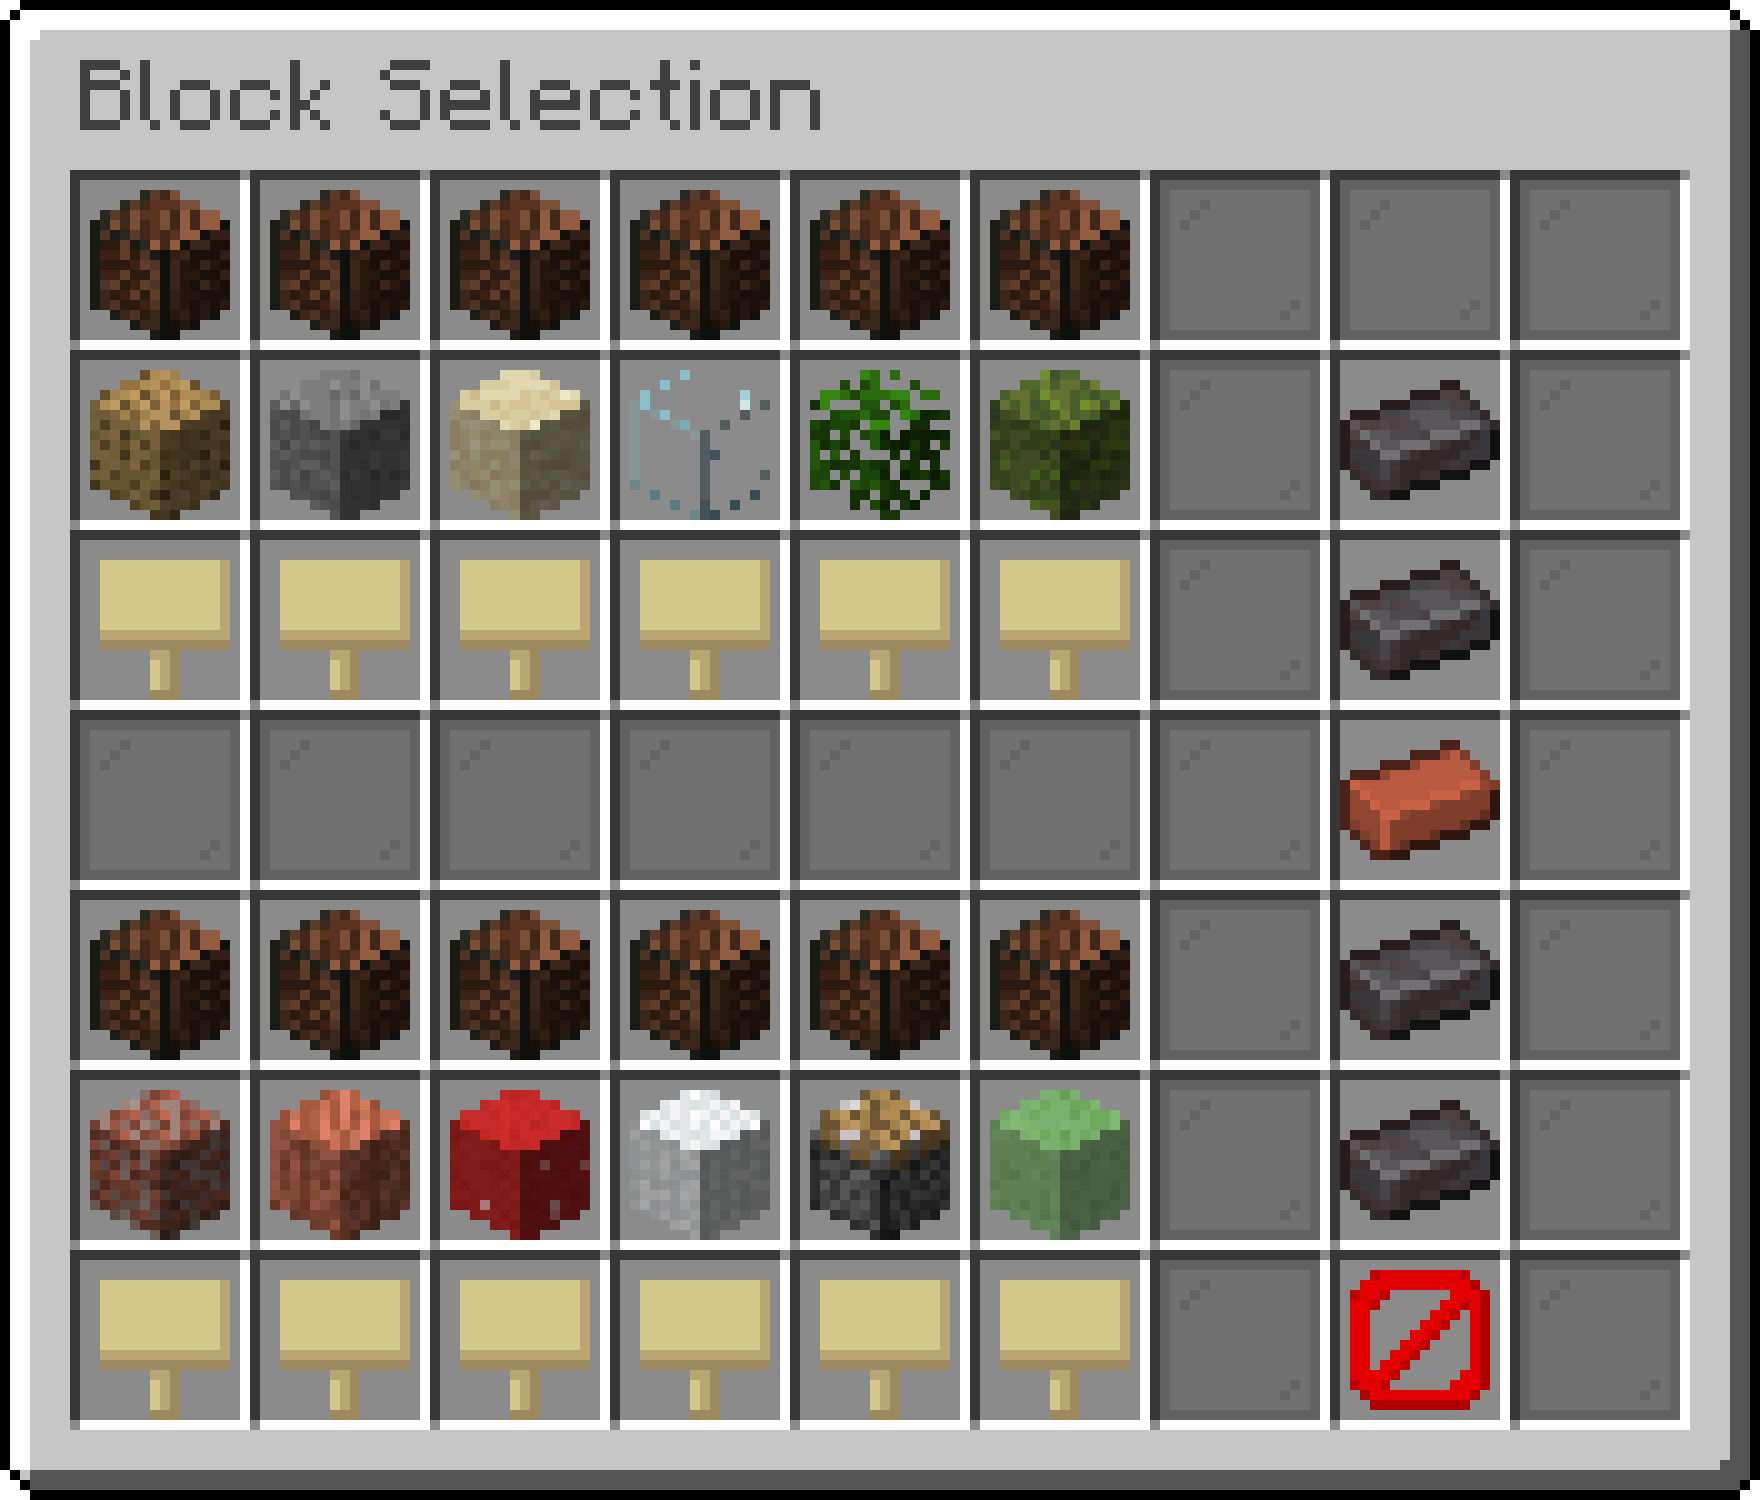
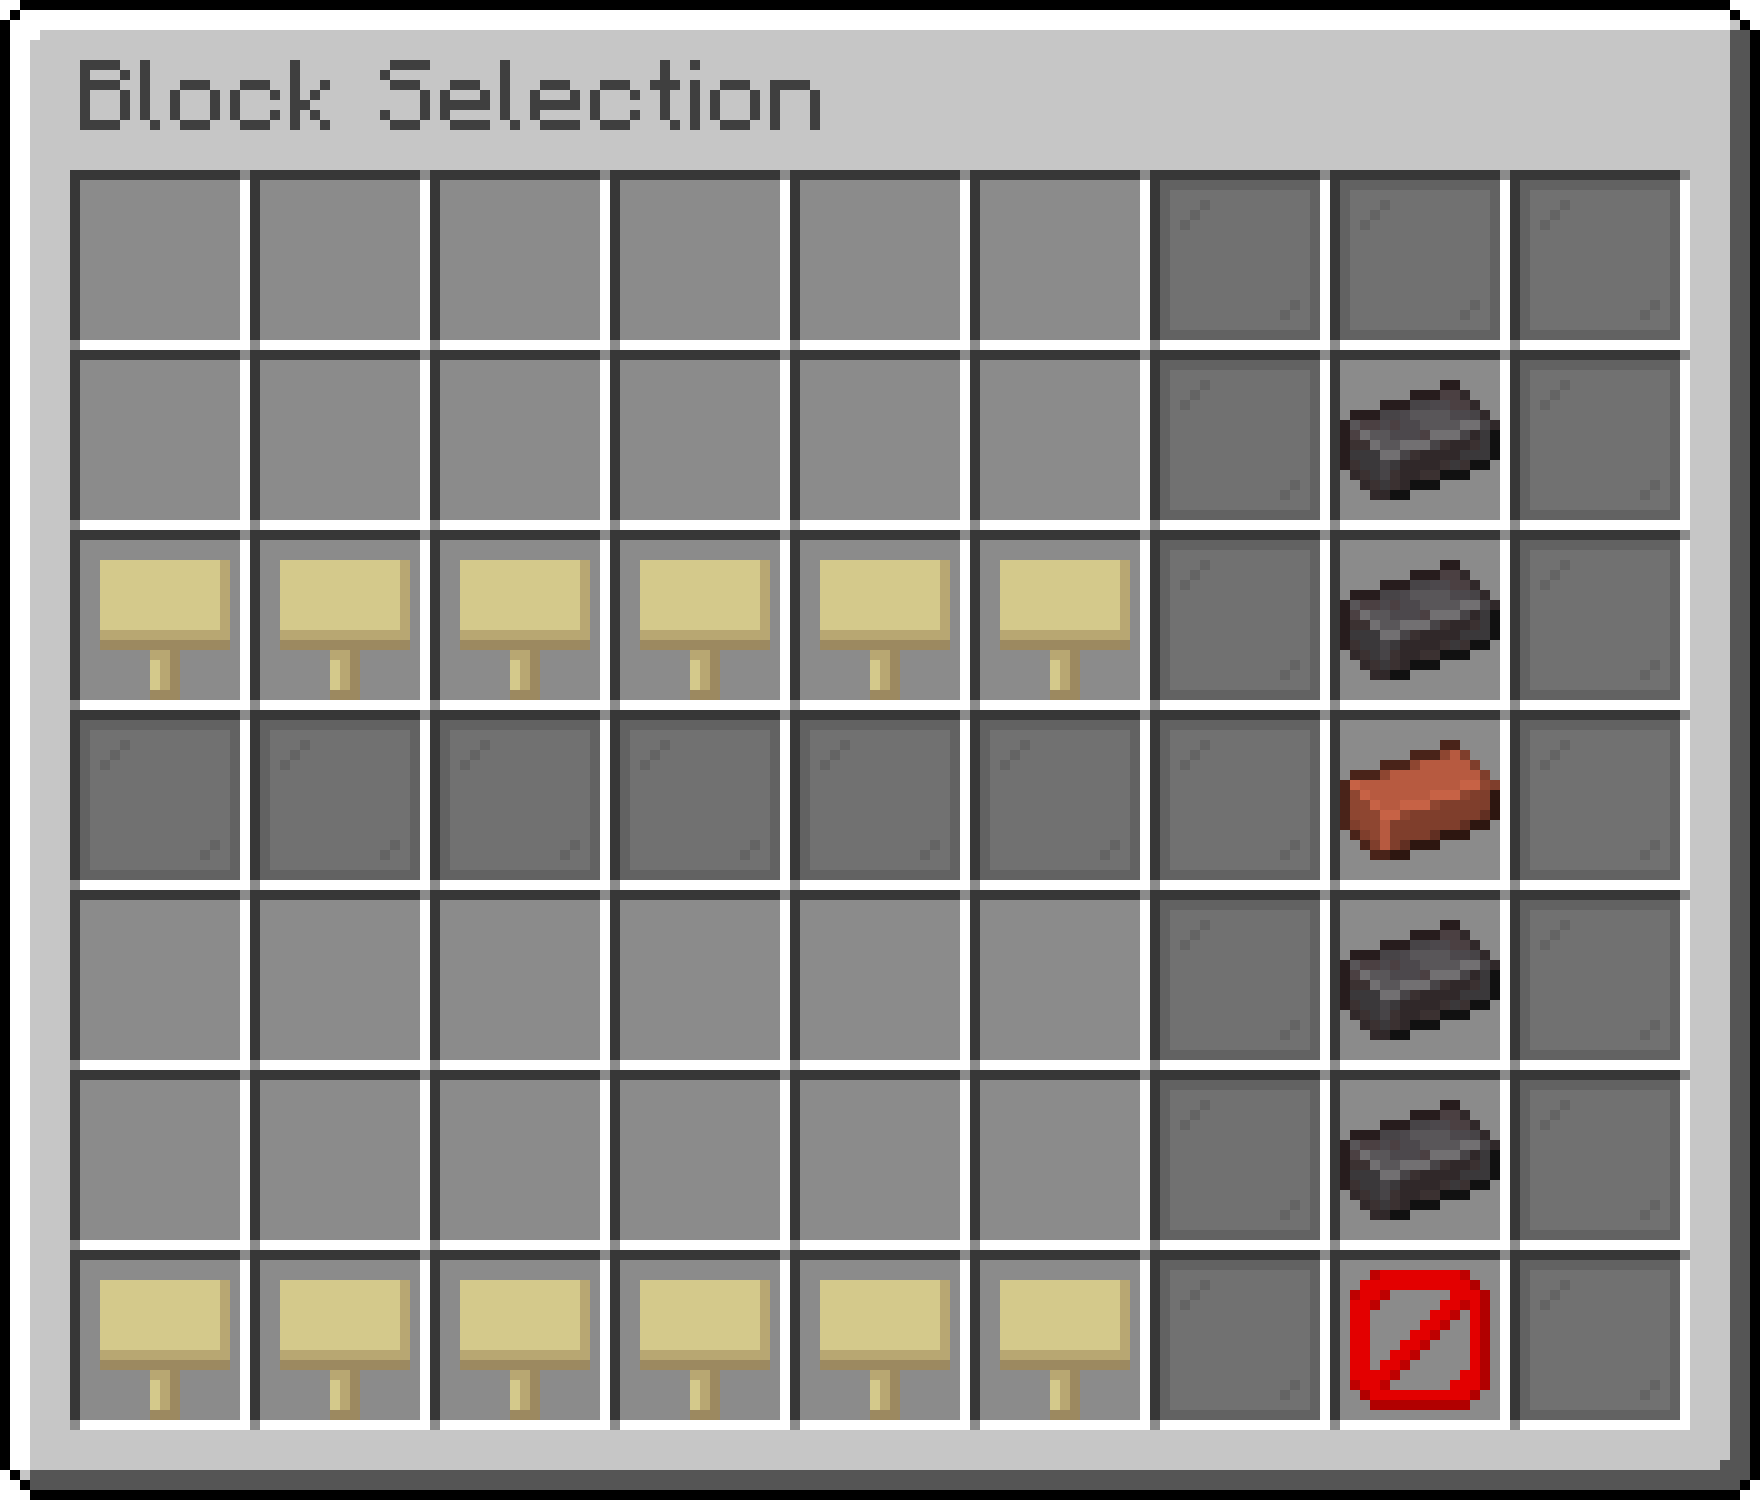
Changing assets to temporary ones that that look better

Changed region(s): [[0.0312, 0.5827, 0.6562, 0.828], [0.0312, 0.1227, 0.6562, 0.368], [0.4062, 0.2453, 0.4375, 0.276]]

diff --git a/src/main/java/me/melonboy10/midi2building/util/ResourceManager.java b/src/main/java/me/melonboy10/midi2building/util/ResourceManager.java
@@ -64,7 +64,7 @@ public class ResourceManager {
             minecraftiaChest = Font.loadFont(getResource("src/main/resources/gui/Minecraftia-Regular.ttf"),6.5*scale);
             minecraftiaSign = Font.loadFont(getResource("src/main/resources/gui/Minecraftia-Regular.ttf"),5*scale);
             atlas = readImage("src/main/resources/gui/BlockAtlas.png");
-            soundAtlas = readImage("src/main/resources/gui/BlockAtlas.png");
+            soundAtlas = readImage("src/main/resources/gui/SoundAtlas.png");
             mousedLever = readImage("src/main/resources/gui/MousedLever.png");
             backgroundImage = new javafx.scene.image.Image(new FileInputStream("src/main/resources/gui/Background-NoRedstone.png"));
             blockSelectionbackgroundImage = new javafx.scene.image.Image(new FileInputStream("src/main/resources/gui/NoteSelectionBackground.png"));

diff --git a/src/main/java/me/melonboy10/midi2building/screenElements/SelectBlocks.java b/src/main/java/me/melonboy10/midi2building/screenElements/SelectBlocks.java
@@ -231,7 +231,7 @@ public class SelectBlocks extends Stage {
 
             // The Block sound associated with the pitch
             Canvas soundIcon = new Canvas(18*scale,18*scale);
-            getImageFromAtlas(soundIcon, atlas, conversion.getMidiFile().getBlockSound().getOrDefault(note, BlockSounds.NULL));
+            getImageFromAtlas(soundIcon, soundAtlas, conversion.getMidiFile().getBlockSound().getOrDefault(note, BlockSounds.NULL));
             gridPane.add(soundIcon,column,row + 1);
 
             // The button to change the block sound - opens SelectSound.java

diff --git a/src/main/java/me/melonboy10/midi2building/screenElements/SelectSound.java b/src/main/java/me/melonboy10/midi2building/screenElements/SelectSound.java
@@ -126,7 +126,7 @@ public class SelectSound extends Stage {
         int column = 1;
         for (BlockSounds sound : BlockSounds.values()) {
             Canvas soundIcon = new Canvas(18*scale,18*scale);
-            getImageFromAtlas(soundIcon, atlas, sound);
+            getImageFromAtlas(soundIcon, soundAtlas, sound);
             gridPane.add(soundIcon,column,row);
 
             Canvas soundSelector = new Canvas(18*scale,18*scale);
